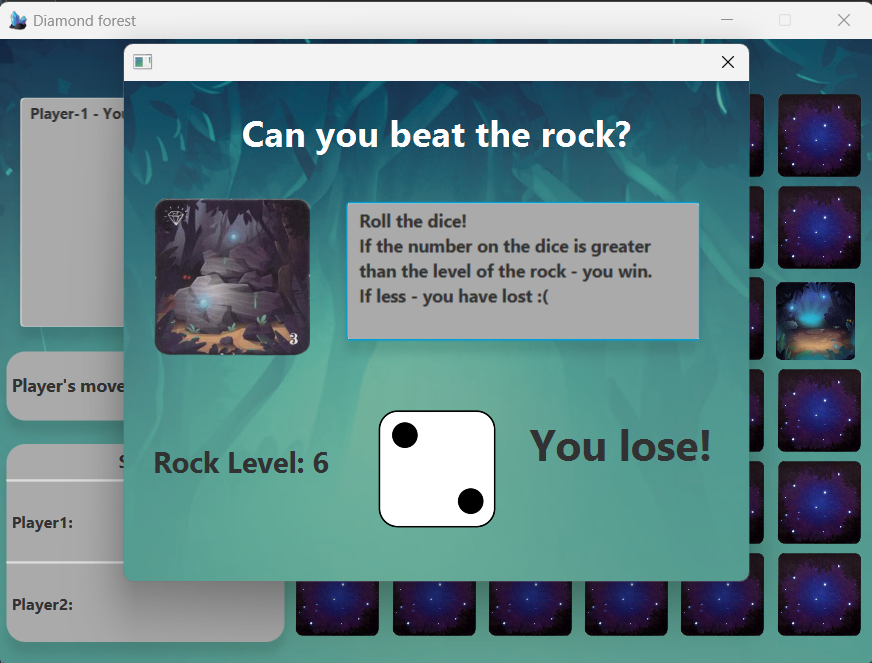
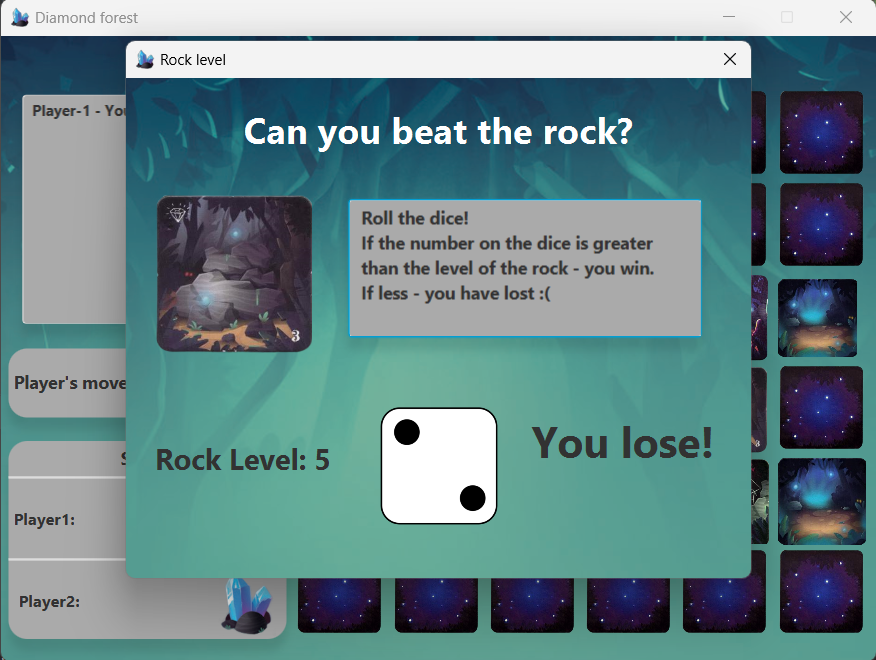
fix screenshots

diff --git a/src/main/java/cz/mendelu/pef/pjj/xefanova/game/GameController.java b/src/main/java/cz/mendelu/pef/pjj/xefanova/game/GameController.java
@@ -15,6 +15,7 @@ import javafx.stage.Stage;
 import java.io.FileInputStream;
 import java.io.FileNotFoundException;
 import java.io.IOException;
+import java.util.Objects;
 
 import static cz.mendelu.pef.pjj.xefanova.game.Mapa.*;
 import static cz.mendelu.pef.pjj.xefanova.game.Player.Move;
@@ -224,6 +225,10 @@ public class GameController  {
             Parent root = FXMLLoader.load(getClass().getResource("/cz/mendelu/pef/pjj/xefanova/game/skala-view.fxml"));
             Stage skala = new Stage();
             skala.setScene(new Scene(root));
+            Image favicon = new Image(Objects.requireNonNull(
+                    getClass().getResourceAsStream("/cz/mendelu/pef/pjj/xefanova/game/pictures/blueDiamond.png")));
+            skala.getIcons().add(favicon);
+            skala.setTitle("Rock level");
             skala.initModality(Modality.APPLICATION_MODAL);
             skala.setResizable(false);
             skala.showAndWait();
@@ -250,6 +255,10 @@ public class GameController  {
             Parent root = FXMLLoader.load(getClass().getResource("/cz/mendelu/pef/pjj/xefanova/game/bazen-view.fxml"));
             Stage bazen = new Stage();
             bazen.setScene(new Scene(root));
+            Image favicon = new Image(Objects.requireNonNull(
+                    getClass().getResourceAsStream("/cz/mendelu/pef/pjj/xefanova/game/pictures/blueDiamond.png")));
+            bazen.getIcons().add(favicon);
+            bazen.setTitle("Swamp level");
             bazen.initModality(Modality.APPLICATION_MODAL);
             bazen.setResizable(false);
             bazen.showAndWait();
